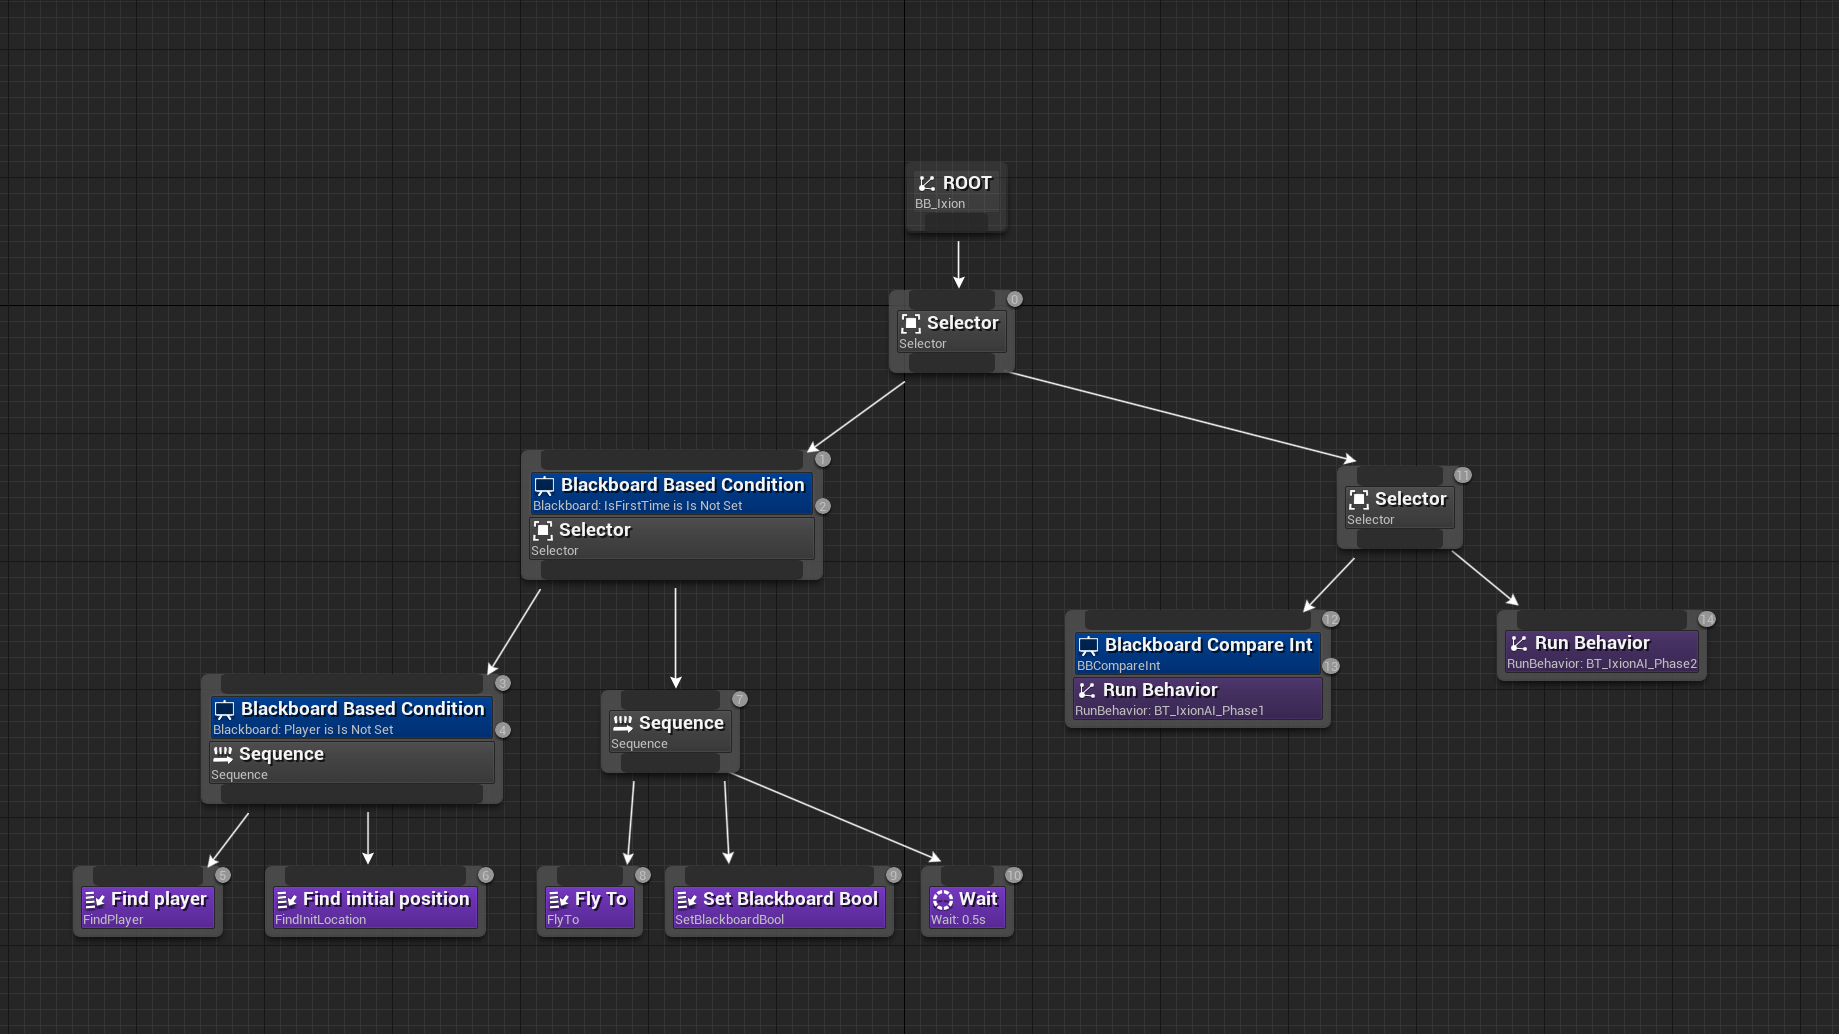
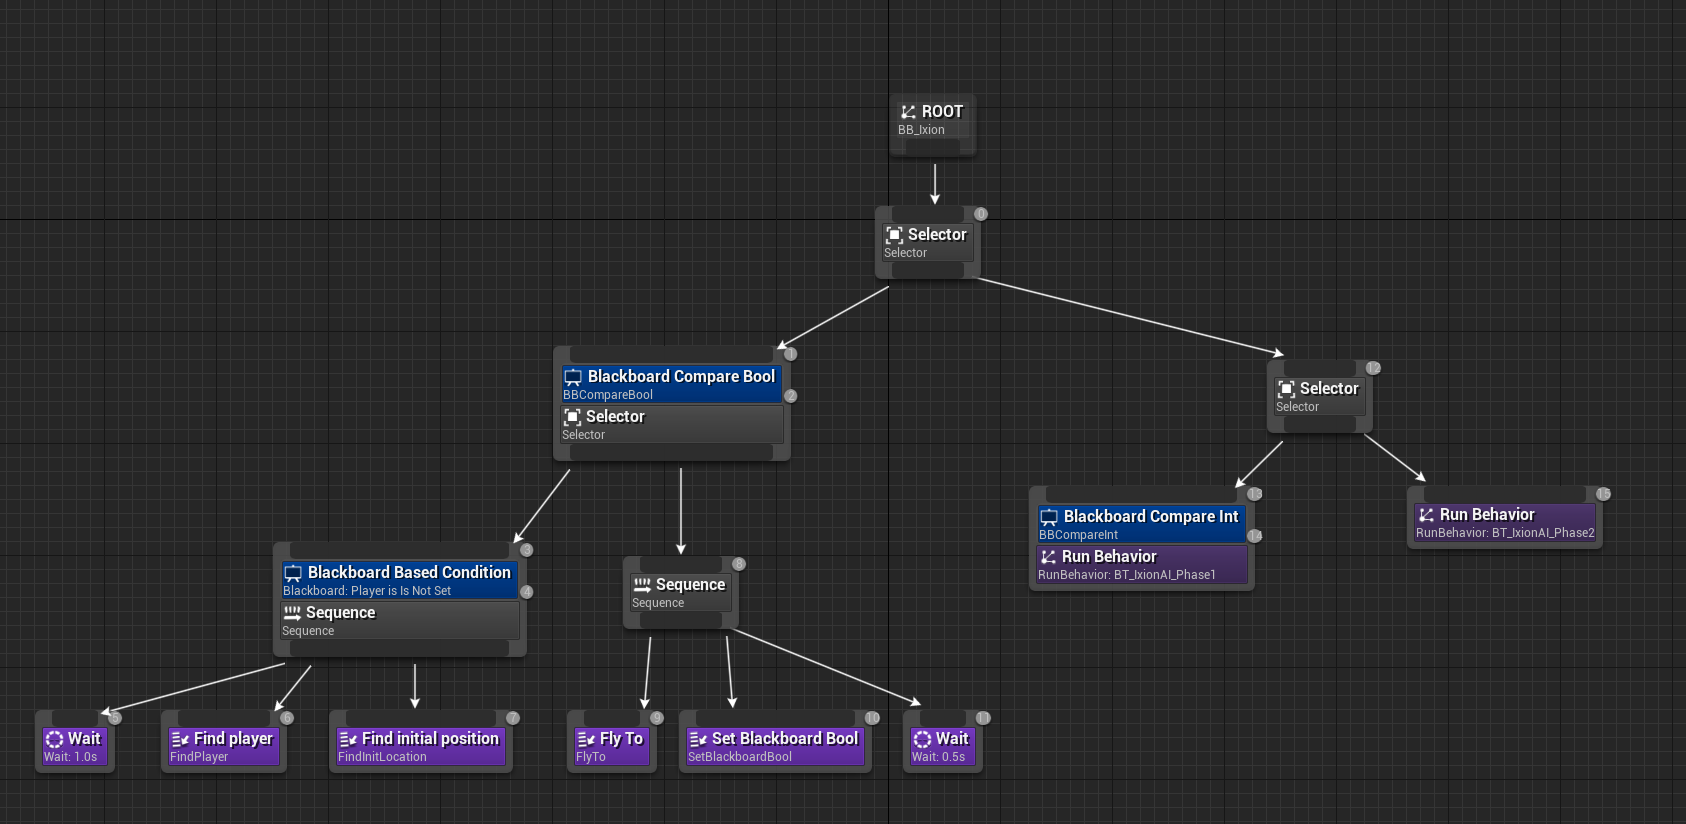
Update Returnal page

diff --git a/src/app/components/projects/returnal-unreal-engine/returnal-unreal-engine.component.html b/src/app/components/projects/returnal-unreal-engine/returnal-unreal-engine.component.html
@@ -1,42 +1,89 @@
 <div class = "content__section">
     <h1 class = "content__title content__title__glitch" data-text="Housemarque's Returnal in Unreal Engine 5">Housemarque's Returnal in Unreal Engine 5</h1>
     <div class = "content__wrapper">
-        <p class = "content__text">This project is an attempt to recreate some of the bosses from <b>Returnal</b>, a third-person action shooter that was a PS5 launch exclusive developed by Housemarque.</p>
+        <p class = "content__text">This project is an attempt to recreate in Unreal Engine 5 and C++ some of the bosses from <b>Returnal</b>, a third-person action shooter that was a PS5 launch exclusive developed by Housemarque.</p>
         <p class = "content__text">Since behavior trees have become the industry standard for AI behaviors, I will be implementing the enemies' AI with BTs instead of more traditional programming.</p>
 
         <a class = "content__link" target="_blank" href="https://github.com/magalenyo/UE5-BulletHell">Housemarque's Returnal Unreal Engine 5</a>
 
-        
         <div class = "content__section--mini">
             <h2>Ixion (2nd boss)</h2>
-            <p class = "content__text">This boss has different stages; it first starts grounded, but then immediately flies off into the sky, and the game loop starts.</p>
-            <h3>Stage 1</h3>
-            <p class = "content__text">In the first stage it will be able to perform the following actions:</p>
-            <ul class = "content__list">
-                <li>Fly to: flies to a target location above the ground.</li>
-                <li>Exit attack (Basic Attack): perform a 360 degree burst of bullets that decelerate drastically using a curve.</li>
-                <li>Machine gun attack (basic attack): shoots to a predicted position of where the player will go, with a certain spread behavior.</li>
-                <li>Burst attack (Basic Attack): shoots towards the player in a cone.</li>
-                <li>Vortex attack (Heavy Attack): it shoots a cone of bullets towards the player, making a beautiful pattern.</li>
-            </ul>
-            <p class = "content__text">The exit attack will always be performed before it moves to a different location.</p>
-
+            <p class = "content__text">This boss has 3 different phases; it first starts grounded, but then immediately flies off to the sky, and the game loop starts, firing different bullet patterns and attacks. Each phase adds a level of difficulty by adding new complex attacks.</p>
+            <p class = "content__text">Phase 1 and Phase 2 are done, but I'm not going to implement Phase 3 for the lack of animations. I'm looking forward to implement Hyperion in the future, but for now this is it.</p>
+            <p class = "content__text">This boss has different phases; it first starts grounded, but then immediately flies off to the sky, and the game loop starts, firing different bullet patterns and attacks.</p>
+            
+            <h3>Full Gameplay</h3>
             <div class="videoWrapper">
-                <iframe class = "youtubeVideo" src="https://www.youtube.com/embed/y0GLFrA8OWM" frameborder="0" allow="accelerometer; autoplay; clipboard-write; encrypted-media; gyroscope; picture-in-picture" allowfullscreen></iframe>
+                <iframe class = "youtubeVideo" src="https://www.youtube.com/embed/GBGyvQ0MmYU" frameborder="0" allow="accelerometer; autoplay; clipboard-write; encrypted-media; gyroscope; picture-in-picture" allowfullscreen></iframe>
+            </div>
+            
+            <h3>Shorter version to display attacks only</h3>
+            <div class="videoWrapper">
+                <iframe class = "youtubeVideo" src="https://www.youtube.com/embed/R4kpB3jB7HE" frameborder="0" allow="accelerometer; autoplay; clipboard-write; encrypted-media; gyroscope; picture-in-picture" allowfullscreen></iframe>
             </div>
 
-            <p class = "content__text">General Behavior Tree</p>
-            <img src="assets/images/projects/returnal/bt_ixion_general.png">
+            
+            <div class = "content__section--mini">
+                <h3>Behavior Tree Root</h3>
+                <p class = "content__text">In order to have the different phases organized, I have created a <b>Behavior Tree</b> root with the common logic, a subtree for phase 1, and another subtree for the phase 2.</p>
+                <p class = "content__text">The root contains the logic to initialize the behavior tree and select the subtree by the current phase.</p>
+                <img src="assets/images/projects/returnal/bt_ixion_general.png">
+            </div>
 
-            <p class = "content__text">Behavior Tree Stage 1</p>
-            <img src="assets/images/projects/returnal/bt_ixion_phase_1.png">
+            <div class = "content__section--mini">
+                <h3>Phase 1</h3>
+                <p class = "content__text">In this phase, Ixion will be able to perform the following actions:</p>
+                <ul class = "content__list">
+                    <li>Fly to: flies to a target location above the ground.</li>
+                    <li>Exit attack (Basic Attack): perform a 360 degree burst of bullets that decelerate drastically using a curve.</li>
+                    <li>Machine gun attack (basic attack): shoots to a predicted position of where the player will go, with a certain spread behavior.</li>
+                    <li>Burst attack (Basic Attack): shoots towards the player in a cone.</li>
+                    <li>Vortex attack (Heavy Attack): it shoots a cone of bullets towards the player, making a beautiful pattern.</li>
+                </ul>
+                <p class = "content__text">The exit attack will always be performed before it moves to a different location.</p>
 
-            <h3>Stage 2 (Still WIP)</h3>
-            <p class = "content__text">In this stage, Ixion will drop down to the floor, performing an animation, and fly off to the sky at high speed. Then he drops in the middle of the arena and emit a shockwave at ground level.</p>
-            <p class = "content__text">After a short time, he will start emitting shockwaves that grow over time, followed by waves of bullets at a ground level, and emitting a burst of projectiles on the top of its head.</p>
+                <img src="assets/images/projects/returnal/bt_ixion_phase_1.png">
+            </div>
 
-            <p class = "content__text">Behavior Tree Stage 2</p>
-            <img src="assets/images/projects/returnal/bt_ixion_phase_2.png">
+            <div class = "content__section--mini">
+                <h3>Phase 2</h3>
+                <p class = "content__text">This Behavior Tree is separated in two main branches: the first branch where it performs the actions of the phase change, and the second branch which controls the game loop. The second branch will be executed once all tasks on the first branch have been completed.</p>
+                <img src="assets/images/projects/returnal/bt_ixion_phase_2.png">
+                
+                <h4>Phase Initialization</h4>
+                <p class = "content__text">In this initialization phase, Ixion will drop down to the floor, performing an animation, and fly off to the sky at high speed. Then he drops in the middle of the arena emitting a shockwave at a ground level.</p>
+                <p class = "content__text">After a short time, he starts emitting shockwaves that grow over time, followed by waves of bullets at a ground level, and emitting a burst of projectiles on the top of its head. Once he has performed this last sequence 4 times, it will start the game loop of the second phase.</p>
+                <ul class = "content__list">
+                    <li>Drop: shoots a ray facing the ground and drops to that position.</li>
+                    <li>Add offset position: adds an offset to the blackboard key selected. Should be the TargetLocation in order to fly to a high point in the sky, but from the current position of the boss.</li>
+                    <li>Set blackboard vector: sets a vector to the selected blackboard key. In this case sets a position in the center of the arena, but at a high altitude.</li>
+                    <li>Shockwave (Basic Attack): creates a simple shockwave that grows over time only in the x and y axis (it doesn't grow in height).</li>
+                    <li>Shockwave Bullets (Heavy Attack): it's an attack that is repeated 4 times and it's composed by three different things:
+                        <ul>
+                            <li>Shockwave: that grows over time in all axis.</li>
+                            <li>Bullets waves: 2 waves of bullets are fired in a 360 angle around the the boss. It moves in the x and y axis.</li>
+                            <li>Burst: a series of bullets are randomly fired outwards in a sphere around the boss. It mvoes in the x, y and z axis.</li>
+                        </ul>
+                    </li>
+                    <li>Descend rush (Heavy Attack): once the boss is high in the sky, it follows a spline in a descendant direction, and fires two shockwaves that move sideways, and also creates a vortex attack facing the direction of the boss.</li>
+                </ul>
+                <img src="assets/images/projects/returnal/bt_ixion_phase_2_1.png">
+
+                <h4>Game Loop</h4>
+                <p class = "content__text">This branch is responsible for the game loop of the boss. It will always make the boss move to a position, firing an exit attack on movement, and then selecting an attack randomly. A number is generated in the "Random Chance Number" service, and then each attack has a decorator that checks whether if the random number is inside the chance range to be fired.</p>
+                <p class = "content__text">The attacks in this branch are more complex because they are a combination of basic and heavy attacks at the same time.</p>
+
+                <ul class = "content__list">
+                    <li>Machine Gun + Burst: it performs both attacks.</li>
+                    <li>Burst + Vortex: it performs both attacks.</li>
+                    <li>Sweep (Basic Attack): it flies to a random location outside the arena, and then it fires a wave of bullets going from left to right and vice versa several times. Each wave of bullets contains 4 rows of projectiles, and additionally random projectiles can be generated. </li>
+                    <li>Burst + Burst: it performs two waves of burst</li>
+                    <li>Laser and homing projectiles: it first fires a laser starting at the boss up to a distance, rotating from bottom to top, and facing the player. Once the laser has finished, it fires a series or projectiles that home on the player. This attack is repeated twice.</li>
+                    <li>Descend rush: it performs this attack 3 times.</li>
+                </ul>
+                <img src="assets/images/projects/returnal/bt_ixion_phase_2_2.png">
+
+            </div>
         </div>
 
         <p class = "content__text">I also created a small material for the bullets, but I won't be using it in the mechanics videos for clarity reasons.</p>

diff --git a/src/app/app.component.scss b/src/app/app.component.scss
@@ -32,6 +32,10 @@ body {
   border-radius: 10px;
 }
 
+img {
+  margin: 16px 0;
+}
+
 ///************** CONTENT ****************///
 
 .content__body {
@@ -364,7 +368,7 @@ ul > p {
 
   position: relative;
   display: flex;
-  width: 60%;
+  width: 80%;
   margin: 16px auto;
 
   & > img {

diff --git a/src/app/components/projects/shutdown/shutdown.component.html b/src/app/components/projects/shutdown/shutdown.component.html
@@ -15,7 +15,5 @@
 
         <a class = "content__link" target="_blank" href="https://github.com/PenteractStudios/Penteract">Shutdown repository</a>
 
-        <p class = "content__text">*Pending to update this page</p>
-
     </div>
 </div>

diff --git a/src/styles/_variables.scss b/src/styles/_variables.scss
@@ -1,5 +1,6 @@
 :root {
     --primary-white: #fafafa;
+    --secondary-white: #e0e0e0;
     --background-color: #0c0c0e;
     --main-font-color: #FAFAFA;
 }
